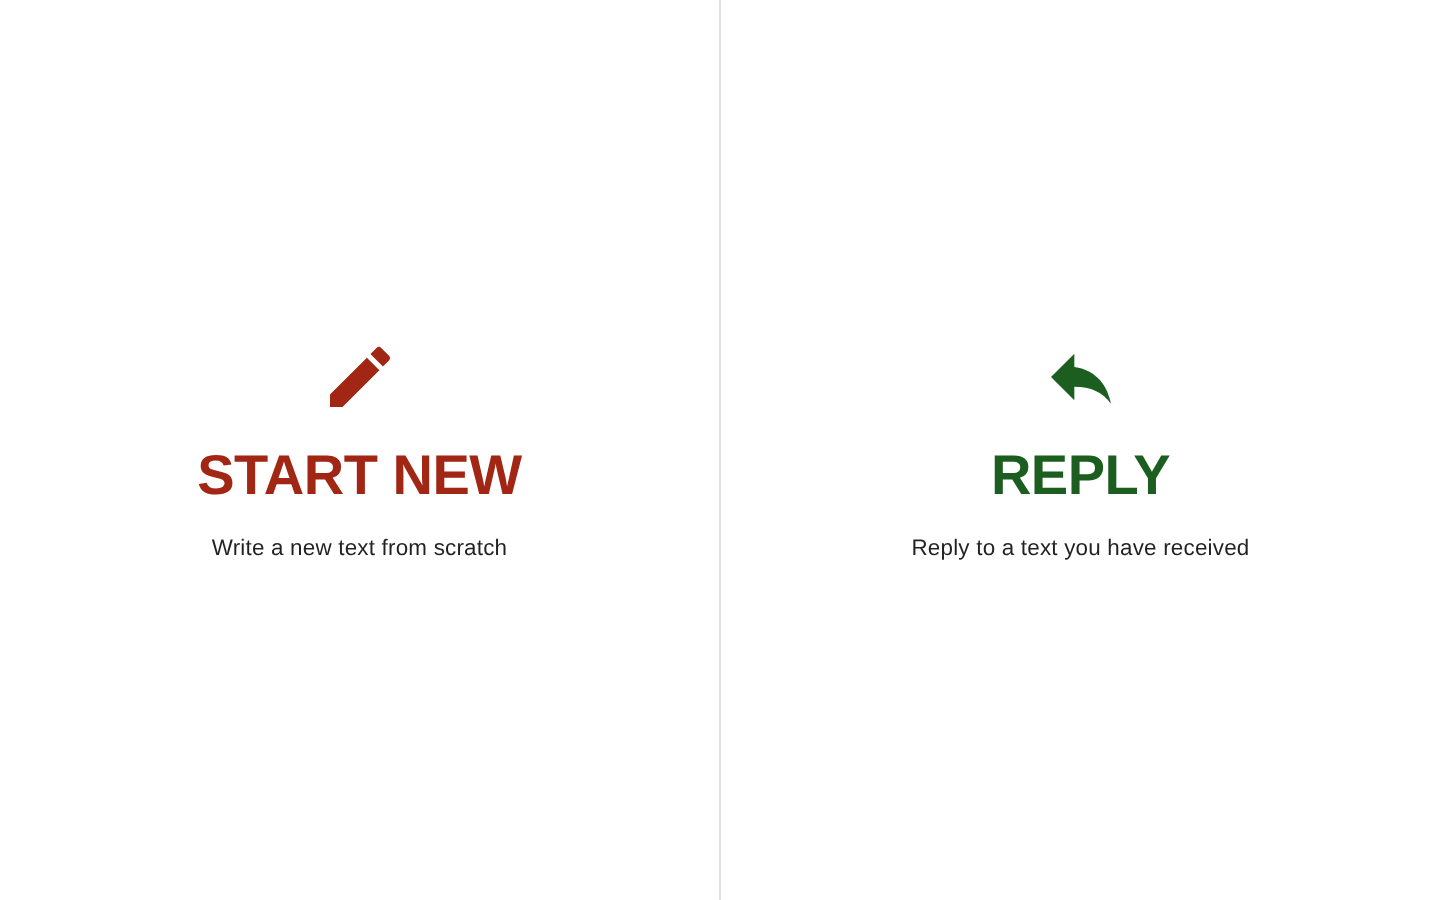
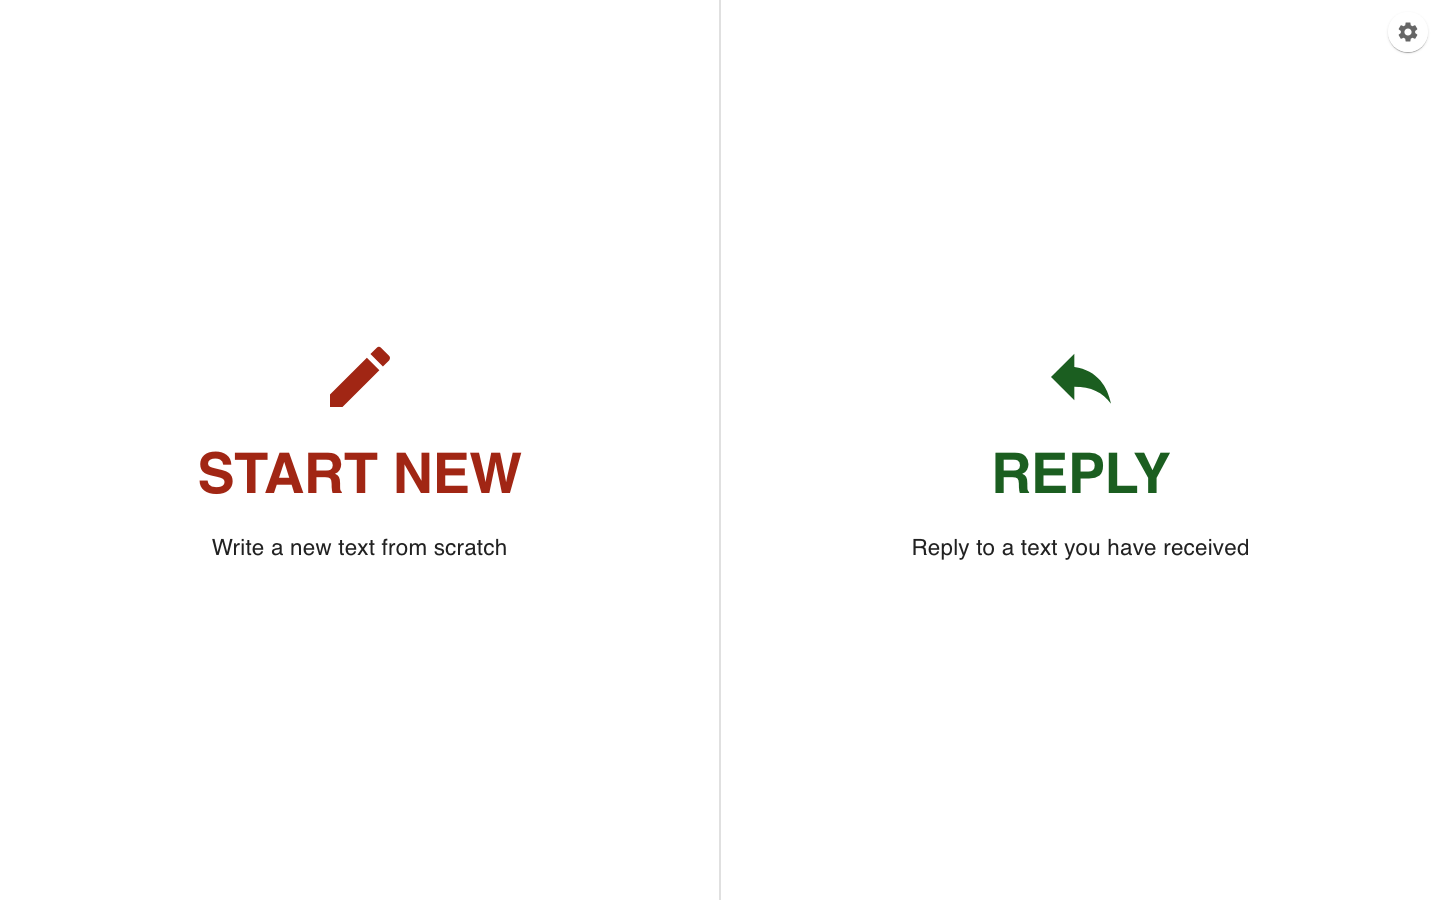
docs: describe Settings, the light and dark looks, and the apps
- README: a Settings and appearance section with a dark-mode
  screenshot; the Mobile and smartwatch section now covers the iPhone
  and Android apps, the native watch app and the automatic builds;
  the architecture lists GET /api/health and the voice choice; the
  client variables gain REACT_APP_TTS_VOICE; the project structure
  shows mobile/, watch/ and .github/. Adds the Builds badge.
- New screenshots: the watch app (a question, the finished text read
  aloud, Settings), the phone question flow and editor, and the
  desktop home, question and editor screens, all with the gear.
- watch/README.md: a Settings section; the server address can be set
  on the watch; the new files in the code table.
- mobile/README.md: Settings can switch servers without a new build;
  the system bars and launch screens follow light and dark.

diff --git a/README.md b/README.md
@@ -14,6 +14,7 @@
   <a href="https://doi.org/10.1145/3746059.3747610"><img alt="DOI" src="https://img.shields.io/badge/DOI-10.1145%2F3746059.3747610-blue.svg" /></a>
   <a href="https://arxiv.org/abs/2508.04011"><img alt="arXiv" src="https://img.shields.io/badge/arXiv-2508.04011-b31b1b.svg" /></a>
   <a href="https://www.cs.cmu.edu/~helalaou/publications/stepwrite/"><img alt="Project page" src="https://img.shields.io/badge/project-page-2b4c7e.svg" /></a>
+  <a href="https://github.com/helalaou/StepWrite/actions/workflows/builds.yml"><img alt="Builds" src="https://github.com/helalaou/StepWrite/actions/workflows/builds.yml/badge.svg" /></a>
   <img alt="React 18" src="https://img.shields.io/badge/React-18-149eca.svg" />
   <img alt="Node.js" src="https://img.shields.io/badge/Node.js-Express-339933.svg" />
 </p>
@@ -92,22 +93,51 @@ and each command has many variants in [`client/src/config.js`](client/src/config
 | Editor    | "go back to questions"                    | Return to the question flow                                   |
 | Editor    | "read it again" / "stop reading"          | Replay or stop the spoken text                                |
 
+### Settings and appearance
+
+Every screen has a gear in the top right corner that opens **Settings**. A change applies at once
+and is kept on that device (in the browser's local storage), so a phone and a computer can each
+have their own.
+
+| Section       | Settings                                                                                       |
+| ------------- | ---------------------------------------------------------------------------------------------- |
+| Appearance    | System (follows the device), Light or Dark                                                     |
+| Answering     | Hands-free, Type or speak, or Type only. In hands-free mode: how long a pause ends an answer, and how long a silence lasts before the question is asked again |
+| Reading aloud | Whether questions and the finished text are read aloud, the voice (with a sample), and the reading speed |
+| Server        | The address of the StepWrite server. A new address is used only once a StepWrite server answers there |
+
+**Reset all** returns to the defaults the client was built with
+([Client settings](#client-settings)).
+
+<p align="center">
+  <img src="docs/assets/settings.png" alt="StepWrite in dark mode on a phone: a question in hands-free mode, and the Settings pane" width="560" />
+</p>
+
 ### Mobile and smartwatch
 
 The interface is responsive and works in a phone browser (for example over an
-[ngrok HTTPS tunnel](#remote-access-with-ngrok)).
+[ngrok HTTPS tunnel](#remote-access-with-ngrok)). StepWrite also comes as apps:
+
+- **iPhone and Android:** [`mobile/`](mobile/README.md) packages the web client as an iPhone app and
+  an Android app, with the same screens, voice commands and Settings.
+- **Apple Watch:** [`watch/`](watch/README.md) is a native watchOS app for the hands-free flow. It
+  reads each question aloud, listens through the watch's microphone and reads back the finished
+  text, so a text can be composed entirely from the wrist, without the iPhone. Its own Settings
+  hold the voice, reading speed, listening times, wrist taps and server address.
+
+GitHub Actions builds the server and every app from the code on each push to `main`, and publishes
+them on the [releases page](https://github.com/helalaou/StepWrite/releases). See
+[App builds](docs/app-builds.md) for the downloads and how the builds work.
 
 <p align="center">
   <img src="docs/assets/mobile.png" alt="StepWrite question flow and editor on a phone" width="560" />
 </p>
 
-StepWrite also works in a smartwatch browser. On watch-sized screens the interface switches to a
-compact layout, and because the whole flow is driven by voice, a text can be composed entirely from
-the wrist.
-
 <p align="center">
-  <img src="docs/assets/watch.png" alt="StepWrite asking a question and transcribing an answer on a smartwatch" width="520" />
+  <img src="docs/assets/watch.png" alt="The StepWrite watch app asking a question, reading the finished text aloud, and its Settings" width="760" />
 </p>
+
+In a smartwatch browser, the web interface switches to a compact layout for watch-sized screens.
 
 ## Architecture
 
@@ -123,8 +153,11 @@ Browser (React 18, Create React App, MUI)
       ├─ POST /api/generate-initial-reply-question
       ├─ POST /api/classify/tone, /api/classify/text-type, /api/fact-check
       ├─ POST /api/draft/current, /api/control/followup
-      ├─ POST /api/transcribe                    speech-to-text (OpenAI whisper-1)
-      ├─ POST /api/tts/generate, GET /tts/*      text-to-speech (OpenAI tts-1), cached on disk
+      ├─ POST /api/transcribe                    speech-to-text (OpenAI whisper-1); audio without
+      │                                          speech returns no text
+      ├─ POST /api/tts/generate, GET /tts/*      text-to-speech (OpenAI tts-1, in the voice chosen
+      │                                          in Settings), cached on disk
+      ├─ GET  /api/health                        lets Settings check that a StepWrite server answers
       └─ POST /api/save-experiment-data          study logging (see below)
 ```
 
@@ -199,6 +232,7 @@ The client reads these optional build-time variables (for example in `client/.en
 | ---------------------------------- | ---------------------- | --------------------------------------------------------------- |
 | `REACT_APP_INPUT_MODE`             | `HANDS_FREE`           | `HANDS_FREE`, `TEXT_ONLY` or `TEXT_AND_VOICE`                   |
 | `REACT_APP_TTS_MODE`               | `ENABLED`              | `ENABLED` or `DISABLED` spoken questions and output             |
+| `REACT_APP_TTS_VOICE`              | `nova`                 | Voice for spoken questions and output (see `TTS_VOICES` in [`server/lib/tts.js`](server/lib/tts.js)) |
 | `REACT_APP_TEXT_EDITOR_TTS_PREFIX` | `The final output is:` | Phrase spoken before the final text is read aloud               |
 | `REACT_APP_COMMAND_MATCHING_MODE`  | `FUZZY`                | Voice command matching: `FUZZY`, `CONTAINS` or `EXACT_MATCH`    |
 
@@ -207,14 +241,16 @@ The client reads these optional build-time variables (for example in `client/.en
 [`server/config.js`](server/config.js) holds the model, temperature and token limit for every
 step (GPT-4o for writing, GPT-4.1 for editing, replies and tone, o3 for fact-checking and
 dependency analysis), the fact-checking loop, tone classification, the continuous-draft policy,
-the TTS voice (`nova`) and the Whisper settings. Logs are written to `server/temp/app.log`.
+the default TTS voice (`nova`, used when a request names none) and the Whisper settings. Logs are written to `server/temp/app.log`.
 
 ### Client settings
 
 [`client/src/config.js`](client/src/config.js) holds the API URL and deployment mode, the reply
 email used in the Reply flow, voice activity detection and noise thresholds, voice command
 phrases, and the continuous-draft display settings. The continuous-draft settings exist in both
-config files and should be kept in sync.
+config files and should be kept in sync. The input mode, speech, listening times and server
+address set here and in the variables above are the defaults; [Settings](#settings-and-appearance)
+changes them on each device.
 
 ### Remote access with ngrok
 
@@ -248,9 +284,10 @@ directory is git-ignored.
 │   ├── public/                 index.html (loads the VAD scripts), icons, logo, click sound
 │   └── src/
 │       ├── components/         LandingPage, HandsFreeInterface, ChatInterface, TextEditor,
-│       │                       ParticipantIdInput, ExperimentEndButton, ...
+│       │                       SettingsDialog, ParticipantIdInput, ExperimentEndButton, ...
 │       ├── hooks/              conversation, chat and editor state
-│       ├── utils/              audio filtering and sound helpers
+│       ├── utils/              audio filtering, sound helpers and settings
+│       ├── theme.js            light and dark themes
 │       └── config.js           client configuration
 ├── server/                     Express API
 │   ├── prompts/                all LLM prompts
@@ -261,6 +298,10 @@ directory is git-ignored.
 │   ├── server.js               routes
 │   ├── config.js               server configuration
 │   └── .env.template
+├── mobile/                     iPhone and Android apps around the web client (Capacitor)
+├── watch/                      native Apple Watch app (SwiftUI)
+├── .github/                    GitHub Actions workflows and Dependabot
+├── docs/app-builds.md          automatic builds, releases and checks
 ├── docs/assets/                screenshots
 ├── install.sh, run.sh, deploy.sh
 └── ngrok_config.example.yml

diff --git a/watch/README.md b/watch/README.md
@@ -24,8 +24,9 @@ The simulator uses the Mac's microphone and speakers and reaches the server at
 
 1. **Make the server reachable over HTTPS.** A watch can't reach `localhost` on your Mac. Start
    the ngrok tunnel (see [Remote access with ngrok](../README.md#remote-access-with-ngrok)) and
-   put its server address in [`StepWrite/ServerSettings.swift`](StepWrite/ServerSettings.swift).
-   It ships with the address from `NGROK.SERVER_URL` in `client/src/config.js`.
+   put its server address in [`StepWrite/ServerSettings.swift`](StepWrite/ServerSettings.swift),
+   or enter it later under [Settings](#settings) on the watch. The app ships with the address from
+   `NGROK.SERVER_URL` in `client/src/config.js`.
 2. **Sign the app.** In Xcode, select the **StepWrite** target, open **Signing & Capabilities**
    and choose your team. Any Apple ID works. If Xcode reports that the bundle identifier
    `io.github.helalaou.stepwrite.watch` is taken, change it to one of your own.
@@ -44,6 +45,7 @@ membership the signature lasts a year, and you can share the app through TestFli
 Like the web app's hands-free mode, it needs neither your hands nor your eyes. Writing starts when
 the app opens: it reads the first question, taps your wrist and listens. Answer out loud and pause
 for a moment to end the answer. If nobody answers for 12 seconds, it reads the question again.
+[Settings](#settings) changes both times.
 
 Say any of the web app's commands instead of an answer:
 
@@ -65,11 +67,31 @@ The watch listens once it has finished speaking, and the small buttons under eac
 same as the commands, including stopping a reading early. The finished text can be shared from
 the watch.
 
+## Settings
+
+The gear opens Settings. It is on the home screen, at the top of the finished text, and on the
+paused screen (say "pause writing" or press Pause). Writing waits while Settings is open and
+carries on when you close it.
+
+| Setting | What it changes |
+| --- | --- |
+| Voice, Speed | The server voice that reads the questions and the text, and how fast it reads |
+| Send answer after | How long a pause ends an answer (1.2 seconds unless changed) |
+| Ask again after | How long a silence lasts before the question is read again (12 seconds, or never) |
+| Taps on the wrist | The taps for listening, pausing, success and errors |
+| Start when opened | Whether writing starts as soon as the app opens |
+| Server | The server's address. A new address is used only once a StepWrite server answers there |
+
+The watch keeps these until they are changed or **Reset all** is pressed. The app stays dark, like
+watchOS, which always draws the time in white.
+
 ## Code
 
 | File | Role |
 | --- | --- |
 | `StepWriteApp.swift`, `ContentView.swift` | The app and its screens |
+| `SettingsScreen.swift` | The Settings screen and its gear buttons |
+| `AppSettings.swift` | The settings and their defaults, kept on the watch |
 | `Indicators.swift` | The level bars, status, progress dots and other indicators |
 | `ConversationModel.swift` | The question-and-answer loop, the same flow as the web app's hands-free mode |
 | `SpeechRecorder.swift` | Records an answer and ends it once speech stops rising above the room's noise floor |
@@ -77,4 +99,4 @@ the watch.
 | `Cues.swift` | The click and wrist taps that confirm what happened |
 | `VoiceCommand.swift` | Recognizes spoken commands |
 | `StepWriteAPI.swift` | Calls the server |
-| `ServerSettings.swift` | The server address |
+| `ServerSettings.swift` | The server address the app is built with |

diff --git a/mobile/README.md b/mobile/README.md
@@ -26,7 +26,7 @@ npm run build
 `npm run build` builds the web client into `mobile/www` and copies it into the `ios/` and
 `android/` projects. Run it again after every change to `client/` or `capacitor.config.json`.
 
-The server address is fixed when you build:
+The build sets the server address the apps start with:
 
 | Where the app runs | Build command | Server address the app uses |
 | --- | --- | --- |
@@ -36,7 +36,9 @@ The server address is fixed when you build:
 
 Without `SERVER_URL`, the apps use the same address as the web client (`DEPLOY_MODE` in
 [`client/src/config.js`](../client/src/config.js)). The server already accepts requests from both
-apps (see [`server/lib/origins.js`](../server/lib/origins.js)).
+apps (see [`server/lib/origins.js`](../server/lib/origins.js)). In the app, Settings (the gear in
+the top right corner) can switch to another server without a new build; it checks that a
+StepWrite server answers at the new address first.
 
 ## Run in the iPhone simulator
 
@@ -139,6 +141,11 @@ Phones get StepWrite's regular layout; the watch layout is only for watch-sized 
 apps keep the web view clear of the notch, the Dynamic Island, and the system bars. On iPhone,
 [`SafeAreaViewController.swift`](ios/App/App/SafeAreaViewController.swift) does this. On Android,
 Capacitor's SystemBars plugin does it (configured in `capacitor.config.json`).
+
+The system bars and the strips behind them follow the appearance chosen in Settings (System,
+Light or Dark). On iPhone the strips take the page's `theme-color`; on Android
+[`AppearancePlugin.java`](android/app/src/main/java/io/github/helalaou/stepwrite/AppearancePlugin.java)
+colors them. Both apps also have a dark launch screen for when the phone is in dark mode.
 
 ## Debugging
 
